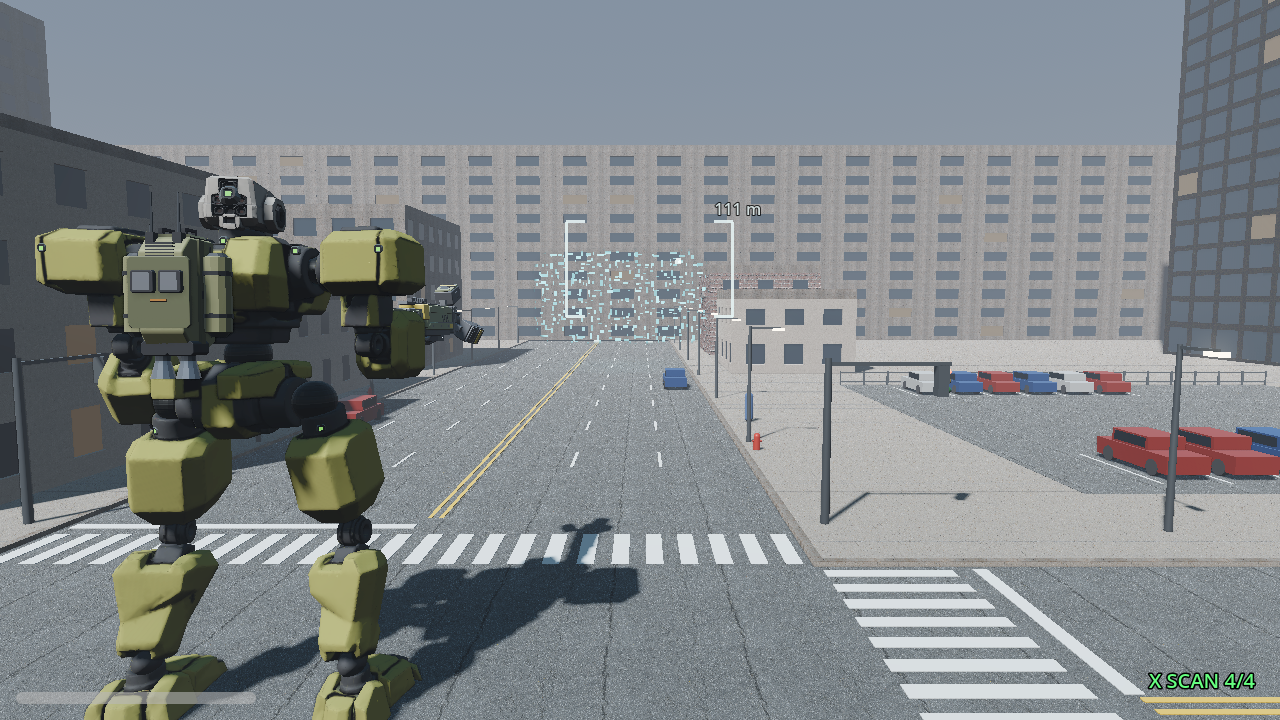
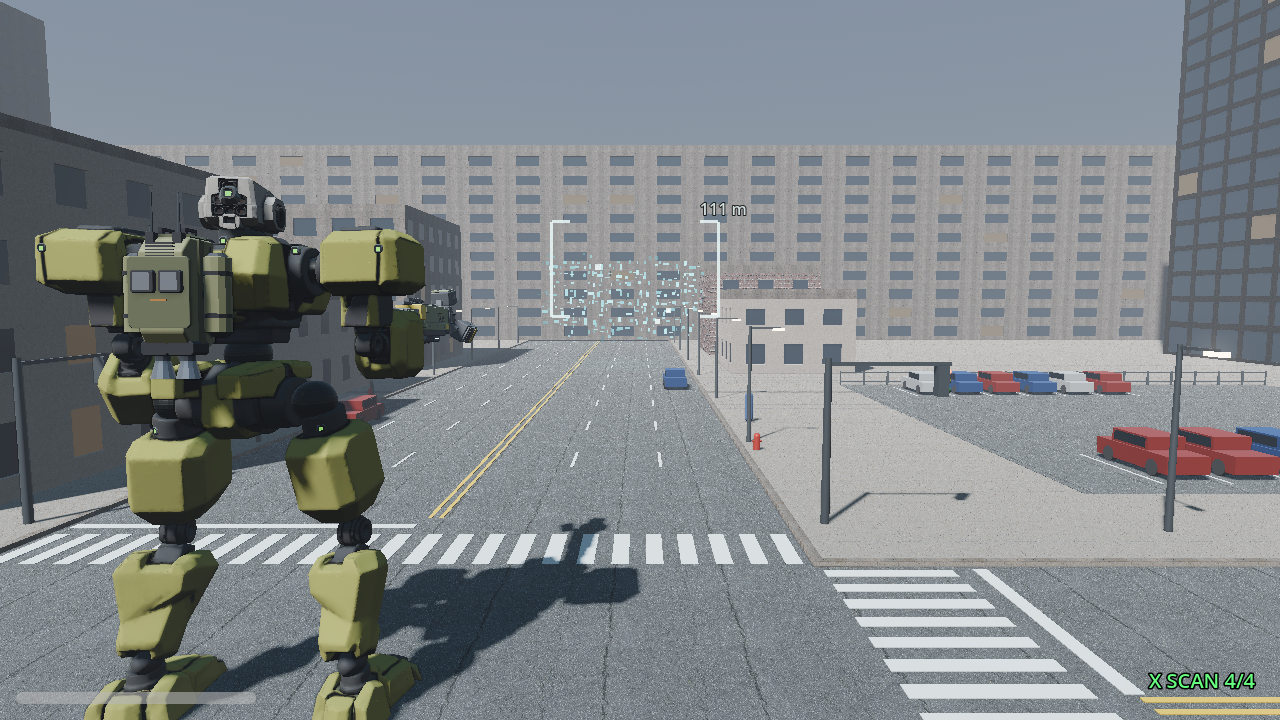
Shotgun 2 and 3 pulse looks: soft edges (no dotted line), another 25% fewer particles
Claude-Session: https://claude.ai/code/session_01KUmA77URF7KDMRfCxKb9jU

Changed region(s): [[0.4062, 0.275, 0.5938, 0.4889], [0.3125, 0.3972, 0.375, 0.4889], [0.4375, 0.7333, 0.4688, 0.7944]]

diff --git a/DESIGN.md b/DESIGN.md
@@ -1087,6 +1087,7 @@ Paint skin "Navy Orange" (the 4th garage skin, `MechSkinChoice.Style.PAINT`, the
 - Rune pulse look for Shotgun 2 and 3 (user 2026-11-01: "Beautify and add character to the shotgun particles for shotgun 2 and 3. Use the image as reference. Shotgun 2 particle is horizontal rectangle, slightly larger than the square crosshair now. X ... also larger a bit than the square crosshair"; reference `models/guides/pulse_rune_ref.jpg`, a golden rune ring with a cyan center): `PulseShot` now draws cards with `shaders/pulse_rune.gdshader` (unshaded: a rounded rectangle with a gold outer line, a band of upright gold glyphs on the nearest edge that flicker and scroll round, sparkles, a faint gold haze, a gold inner line, a rippling cyan center, an HDR boost for bloom). Shotgun 2: one horizontal rectangle (glyph band 0.19 of the short side, so the center shows). Shotgun 3: an X of two rune strips corner to corner of the same rectangle (strip width 0.5 of its height), each with a bright cyan core line. Size: `half_deg` (7.2, 4.15) degrees seen from the player camera (the look keeps its size on screen; the crosshair box is about 6.6 x 3.8 degrees with the 53 degree camera at 16:9, so it is about 10% larger); a quick bloom out of the muzzle and a slight pulse. The pellets follow: `PulseShotgunWeapon.pattern_half_deg` (7.2, 4.15) replaces the square `spread_deg` pattern: Shotgun 2's 3 x 3 grid fills the rectangle (1.74 : 1), Shotgun 3's X runs corner to corner. Tests updated (rectangle ratio, X on the rectangle's diagonals): 0 failures.
 - Solid cyan particles (user 2026-11-01: "Remove space in the middle and replace with particles. Change particle color to cyan"): `pulse_rune.gdshader` `solid` 1 (default): the glyph particles fill the whole inside of the rectangle and of each X strip, from the edge to the middle (no inner line, no center plate, no core line); the glyphs, sparkles and haze are cyan; the outer line stays gold. `solid` 0 brings back the earlier band, inner line and cyan center.
 - No outline, fewer and scattered particles (user 2026-11-01: "No orange outline. Reduce the particles by 25%, randomize the particle distribution"): `outline` 0 (the gold line is off; the particles fade out over the last 6% at the edge so the shape still reads); in solid mode the particles are now scattered, not on an edge grid: two layers of cells (0.085 and 0.054 of the short side) drifting slowly, one short cyan stroke per cell at a random place, length, width and direction, lit by a hash that changes about 8 times a second (`scatter_lit` 0.75), plus rare white sparkles. Measured in Godot screenshots (cyan pixels inside the rectangle): 0.126 before, 0.089 and 0.099 in two frames after (70% and 78%, about 25% fewer).
+- Softer edges, another 25% fewer (user 2026-11-01: "Make the edges for both less prominent, right now looks just like a dotted line. Reduce particle by another 25%"): the edge cut particles in half and the haze stopped there, which drew a dotted line. Now each particle is tested at its own center (whole or not shown), fewer are lit within `edge_soft` 0.2 of the short side from the edge (a random border per particle), the far-edge ones are dimmer, the haze and sparkles fade in from the edge. `scatter_lit` 0.78. Measured as before: 0.070 and 0.066 (55% and 53% of the first scattered count 0.126; target 56%). The soft border makes the shapes read a little smaller than their size (`half_deg`).
 - Start values (Claude, to tune): 3.2 t, 9 pellets x 8 damage, spread 4 deg, 300 m/s, range 270 m, 8 shots per magazine, 5 reserve magazines, reload 2.5 s.
 - Manual fire for every shotgun (user rule 2026-11-01): `WeaponData.semi_auto` (new; true for the Shotgun, Shotgun 2 and Shotgun 3; also in `tools/mech_gen/shotgun.py`). `GunWeapon`: with it, a press queues one shot that leaves when the gun is raised and ready; letting go drops it; `needs_release` is true after the shot until the trigger is let go. `AiPilot._must_release`: the AI lets go for a frame after such a shot, then presses again.
 - Checks: `tools/godot/test_shotgun_3.gd` (a 0.1 s press fires nothing; the heads spin while held; no shot before 0.2 s; the pulse 0.32 s after the press with the raise, 0.23 s with the gun up; 9 pellets on an X; one X look; the spin slows from 1080 to 605 deg/s in 0.5 s; holding fires no more; a new press fires; the first Shotgun fires once while held 1.5 s and again on a new press): 0 failures. `test_shotgun_2.gd` (now: holding fires once; fast taps give shots 0.53 s apart): 0 failures.
